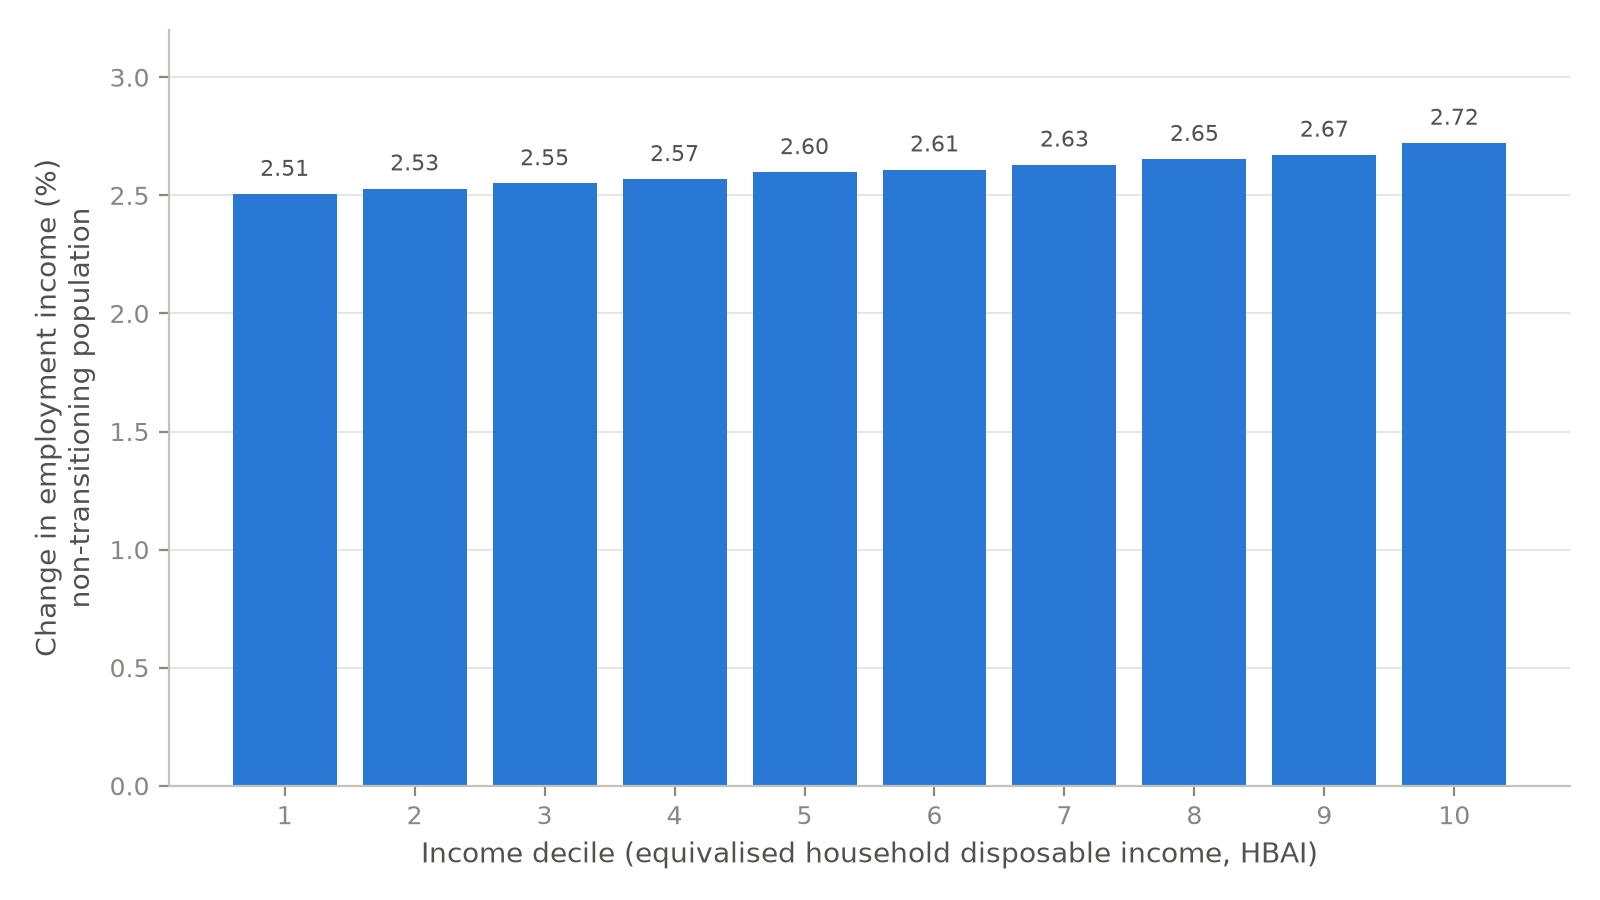
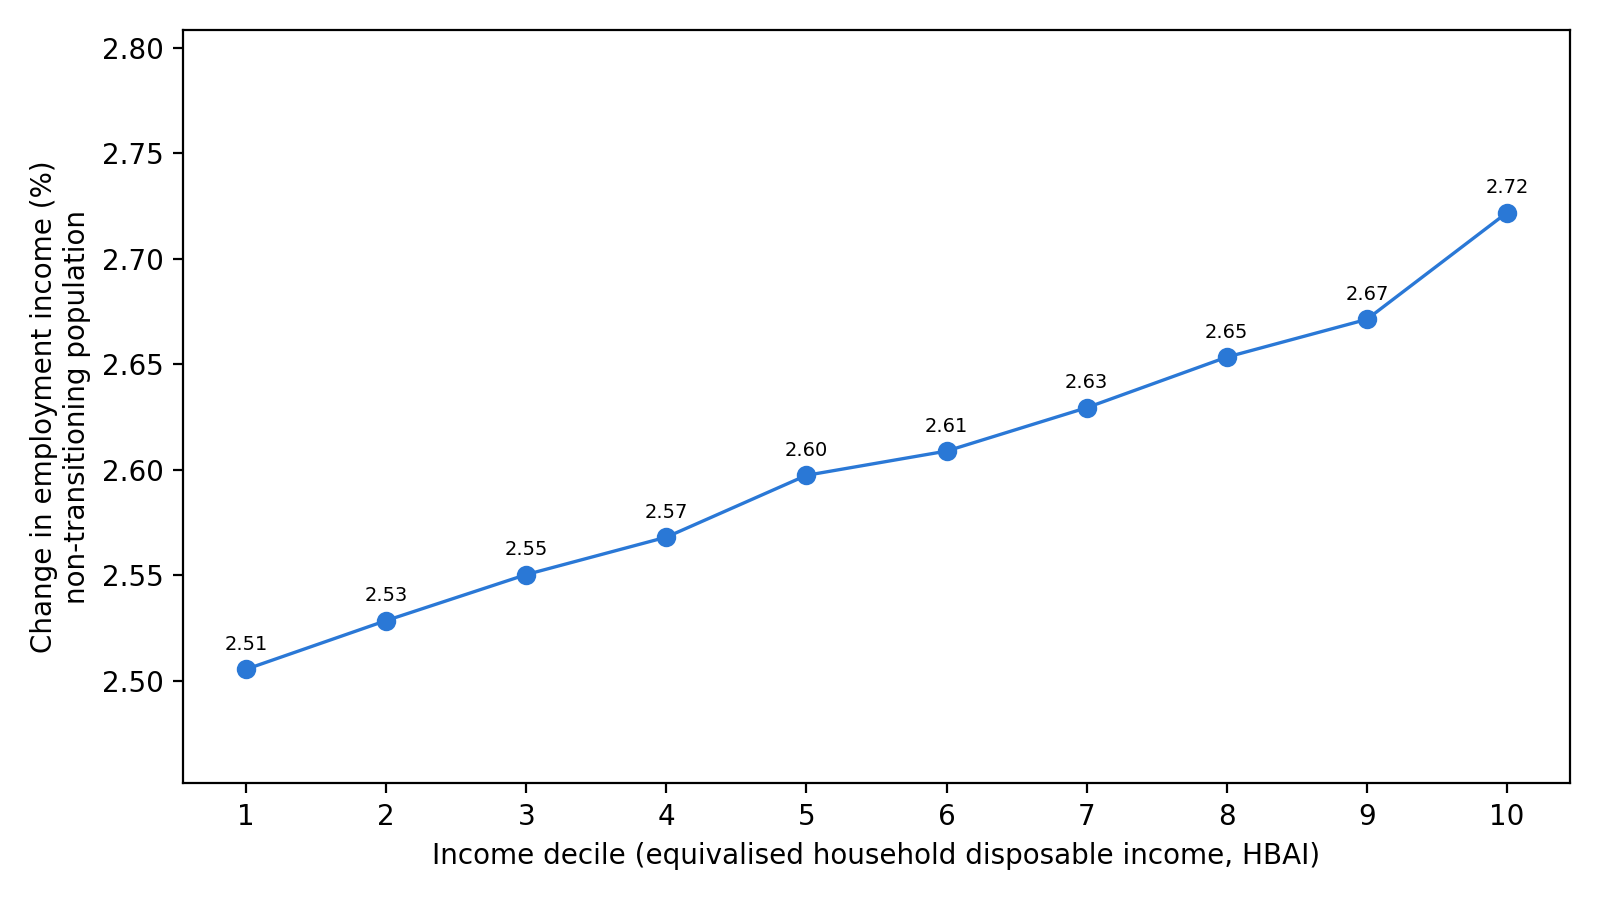
Remove paper-anchored stress-test table; recast literature as context, not scenario sources
Drops Table tab:papers and its transported-headline scenarios. The
cohort-shock point survives as a qualitative statement citing the
hiring-channel literature; methodology, intro, literature, and
discussion no longer describe scenarios as anchored to those papers.

diff --git a/paper/sections/results.tex b/paper/sections/results.tex
@@ -171,30 +171,8 @@ With that understood, the geography is far from uniform. Nationally, aggregate h
 
 The incidence axis has a within-family age structure worth drawing out. Under exposure-proportional incidence, workers aged 16--24 account for only 4.9 per cent of the displaced in the central scenario, because young people in the UK are concentrated in low-exposure service occupations; the burden falls on prime-age workers (28.1 per cent of the displaced are aged 35--44). The junior-concentrated family of Table~\ref{tab:incidence} reweights displacement probabilities towards junior workers while holding the aggregate displacement rate at 7 per cent, raising the 16--24 share to 6.2 per cent and lowering the 55--64 share from 19.1 to 16.2 per cent. The aggregate consequences are statistically nil---over 20 draws the junior family is indistinguishable from the exposure-proportional one on cost (\pounds 18.3 $\pm$ 1.3 against \pounds 18.2 $\pm$ 1.5 billion), poverty and the Gini alike---but the exercise makes a structural point: seniority bias must be imposed, because it cannot be derived from occupational exposure alone. Even under the junior tilt, prime-age workers remain the largest displaced group.
 
-Table~\ref{tab:papers} pushes further, reporting three employment-only stress tests anchored to headline estimates in the recent empirical literature: the UK occupational estimates of \citet{kleinteeselink2025}, the seniority-biased hiring evidence of \citet{hosseini2026}, and the early-career employment declines in AI-exposed occupations documented by \citet{brynjolfsson2025}. These are author-designed transports of headline numbers onto the UK employment structure, not direct implementations of the source papers' designs, and the footnotes flag the strongest assumptions.
 
-\begin{table}[htbp]
-\centering
-\caption{Paper-anchored displacement stress tests, UK translation (employment channel only, single draw, seed 0)}
-\label{tab:papers}
-\small
-\begin{tabular}{lrrrr}
-\toprule
-Scenario & Displaced & Exchequer & $\Delta$ Poverty & $\Delta$ Gini \\
- & (million) & (\pounds bn/yr) & (BHC, pp) & (pp) \\
-\midrule
-Klein Teeselink (2025)$^{a}$ & 1.03 & 22.5 & +1.30 & +0.42 \\
-Hosseini--Lichtinger (2026)$^{a}$ & 0.10 & 1.3 & +0.11 & +0.04 \\
-\quad adopter-share scaled & 0.02 & 0.1 & +0.01 & +0.01 \\
-Brynjolfsson et al.\ (2025a)$^{a,b}$ & 0.02 & 0.2 & +0.02 & +0.01 \\
-\bottomrule
-\end{tabular}
-
-\vspace{0.4em}
-\parbox{0.92\textwidth}{\footnotesize\emph{Note:} Klein Teeselink: $-4.5$ per cent of employees, junior-tilted draws. Hosseini--Lichtinger: 9 per cent of under-30s in above-median-exposure occupations (at-adopter rate); the scaled row multiplies by the adopter employment share. Brynjolfsson et al.: 16 per cent of ages 22--25 in top-quintile-exposure occupations. $^{a}$Source estimates are firm-conditional or relative declines; transporting them economy-wide (or as absolute rates) makes these upper bounds. $^{b}$A \emph{relative} decline versus less-exposed groups in the source paper.}
-\end{table}
-
-The lesson is that cohort-specific shocks are fiscally small. The \citet{hosseini2026} and \citet{brynjolfsson2025} stress tests, which confine displacement to entry-level and early-career workers, displace 0.10 million and 0.02 million workers and cost the Exchequer \pounds 1.3 billion and \pounds 0.2 billion a year respectively---one to two orders of magnitude below the broad-based scenarios---precisely because junior workers contribute little income tax and National Insurance. Only the economy-wide \citet{kleinteeselink2025} transport, with just over one million displaced, generates fiscal effects comparable to my central preset (\pounds 22.5 billion, poverty +1.30 points). If AI adoption in practice falls hardest on juniors through recruitment rather than dismissal, that operates through hiring channels that stock-based simulation frameworks such as mine do not capture by construction.
+If AI adoption in practice falls hardest on juniors through recruitment rather than dismissal---as the seniority-biased hiring evidence of \citet{hosseini2026} and the early-career employment declines in AI-exposed occupations documented by \citet{brynjolfsson2025} suggest---the fiscal consequences would be far smaller than the broad-based scenarios above, because junior workers contribute little income tax and National Insurance. That channel, however, operates through hiring flows that stock-based simulation frameworks such as mine do not capture by construction.
 
 Exposure also carries a gender gradient. Employed women in the FRS have a mean C-AIOE of 0.33 against 0.18 for employed men, reflecting women's concentration in administrative, professional and associate-professional work. In the central scenario this translates into a displacement rate of 7.5 per cent for employed women against 6.4 per cent for men (means over 20 draws): women hold 51.8 per cent of employment but account for 55.6 per cent of the displaced. Household-level income changes are nevertheless similar by sex ($-3.0$ per cent for women, $-2.8$ per cent for men). A natural reading is that income pooling within couples mutes the individual asymmetry at the household level, though I have not decomposed the result and offer this as a hypothesis rather than a finding. The individual-level asymmetry itself echoes the international evidence that female employment is substantially more exposed to generative AI than male employment \citep{ilo2025}, and suggests that within-household earnings shares---and with them, financial autonomy---would shift even where household totals move little.
 

diff --git a/paper/sections/discussion.tex b/paper/sections/discussion.tex
@@ -30,18 +30,18 @@ Taken together, the results suggest that the United Kingdom would enter a period
 
 Several limitations qualify the results. I state them plainly, together with the measurement conventions a reader needs in order to compare my figures with official statistics.
 
-\paragraph{Measurement conventions.} All income results are on the HBAI cash disposable income concept at the household level, equivalised; poverty and inequality statistics share that concept. In computing the Gini I bottom-code negative equivalised incomes at zero. My baseline Gini is 0.309, below the official UK figure of roughly 0.34, because I use the plain Family Resources Survey without the SPI adjustment that corrects for under-coverage of top incomes; levels should therefore not be compared directly with official statistics, though changes---the objects of interest---are computed on a consistent basis throughout.
+Several measurement conventions bear on interpretation. All income results are on the HBAI cash disposable income concept at the household level, equivalised; poverty and inequality statistics share that concept. In computing the Gini I bottom-code negative equivalised incomes at zero. My baseline Gini is 0.309, below the official UK figure of roughly 0.34, because I use the plain Family Resources Survey without the SPI adjustment that corrects for under-coverage of top incomes; levels should therefore not be compared directly with official statistics, though changes---the objects of interest---are computed on a consistent basis throughout.
 
-\paragraph{Monte Carlo conventions.} Which results rest on which random draws matters for interpretation; the conventions are set out in Section~\ref{sec:microsim} and Appendix~\ref{app:seeds}. Single-draw figures carry draw noise that the averaged figures do not, although the 20-draw runs indicate the aggregate magnitudes are stable across seeds.
+Which results rest on which random draws matters for interpretation; the conventions are set out in Section~\ref{sec:microsim} and Appendix~\ref{app:seeds}. Single-draw figures carry draw noise that the averaged figures do not, although the 20-draw runs indicate the aggregate magnitudes are stable across seeds.
 
-\paragraph{Exposure resolution and crosswalk provenance.} Occupational exposure is assigned at the 1-digit SOC level, because the Family Resources Survey records occupation only at the major-group level; within-group heterogeneity in AI exposure---substantial in the indices of \citet{felten2021}, \citet{webb2019} and \citet{eloundou2023}---is averaged away. The exposure scores themselves reach the FRS through a reconstructed pipeline: the complementarity adjustment is rebuilt from published sources (recovering the published ranking up to a level offset), and the US occupational scores are carried to SOC2020 through a chained SOC2018--SOC2010--ISCO--SOC2020 crosswalk with ASHE employment weights available for 340 of 412 unit groups. A UK-native task-based index (GAISI) built from British Skills and Employment Survey data now exists \citep{henseke2025}; adopting it, together with an imputation of detailed occupation from the Labour Force Survey, would remove the crosswalk and the resolution constraint at once, and is the first item on my agenda.
+On exposure resolution and crosswalk provenance: occupational exposure is assigned at the 1-digit SOC level, because the Family Resources Survey records occupation only at the major-group level; within-group heterogeneity in AI exposure---substantial in the indices of \citet{felten2021}, \citet{webb2019} and \citet{eloundou2023}---is averaged away. The exposure scores themselves reach the FRS through a reconstructed pipeline: the complementarity adjustment is rebuilt from published sources (recovering the published ranking up to a level offset), and the US occupational scores are carried to SOC2020 through a chained SOC2018--SOC2010--ISCO--SOC2020 crosswalk with ASHE employment weights available for 340 of 412 unit groups. A UK-native task-based index (GAISI) built from British Skills and Employment Survey data now exists \citep{henseke2025}; adopting it, together with an imputation of detailed occupation from the Labour Force Survey, would remove the crosswalk and the resolution constraint at once, and is the first item on my agenda.
 
-\paragraph{Survey weights.} I use the uncalibrated FRS grossing weights rather than PolicyEngine's enhanced dataset. The enhanced dataset improves aggregate fiscal accuracy through reweighting and household cloning, but cloning breaks the one-to-one correspondence between records and observed occupations on which the exposure join depends. Aggregate fiscal magnitudes should be read with the usual caveats attaching to unadjusted survey grossing.
+On survey weights, I use the uncalibrated FRS grossing weights rather than PolicyEngine's enhanced dataset. The enhanced dataset improves aggregate fiscal accuracy through reweighting and household cloning, but cloning breaks the one-to-one correspondence between records and observed occupations on which the exposure join depends. Aggregate fiscal magnitudes should be read with the usual caveats attaching to unadjusted survey grossing.
 
-\paragraph{Static displacement.} Displaced workers are fully out of work in the simulated year---earnings, hours, employee pension contributions and salary sacrifice set to zero, no statutory pay, benefit entitlements recomputed under existing rules---while dual jobholders retain self-employment income. The duration structure of unemployment is not modelled, so the exhaustion of contributory benefits (new-style Jobseeker's Allowance is payable for at most six months) cannot be expressed; over longer horizons I overstate the support available to displaced workers without means-tested entitlements. Within the year, the sensitivity runs of Section~\ref{sec:results-aggregates} show duration is first-order---a six-month out-of-work spell cuts the fiscal cost by more than three-quarters and eliminates most of the poverty rise---whereas incomplete benefit take-up moves the headline numbers only marginally.
+The displacement treatment is static: displaced workers are fully out of work in the simulated year---earnings, hours, employee pension contributions and salary sacrifice set to zero, no statutory pay, benefit entitlements recomputed under existing rules---while dual jobholders retain self-employment income. The duration structure of unemployment is not modelled, so the exhaustion of contributory benefits (new-style Jobseeker's Allowance is payable for at most six months) cannot be expressed; over longer horizons I overstate the support available to displaced workers without means-tested entitlements. Within the year, the sensitivity runs of Section~\ref{sec:results-aggregates} show duration is first-order---a six-month out-of-work spell cuts the fiscal cost by more than three-quarters and eliminates most of the poverty rise---whereas incomplete benefit take-up moves the headline numbers only marginally.
 
-\paragraph{The capital channel.} The capital-income measure covers only interest and dividends, excluding rental income and returns inside private pensions, and household surveys under-represent top incomes and capital income in particular. The concentration of capital income in the top decile that drives this channel is, if anything, understated. Linked administrative or wealth-survey data (the Wealth and Assets Survey) would sharpen it considerably.
+The capital channel is measured narrowly: the capital-income measure covers only interest and dividends, excluding rental income and returns inside private pensions, and household surveys under-represent top incomes and capital income in particular. The concentration of capital income in the top decile that drives this channel is, if anything, understated. Linked administrative or wealth-survey data (the Wealth and Assets Survey) would sharpen it considerably.
 
-\paragraph{The self-employed.} All shock scenarios exclude the self-employed. Exposure indices and the displacement literature underpinning my parameters are defined over employees, and self-employed earnings dynamics under AI adoption may include both displacement and new opportunities; I exclude the group rather than impose an arbitrary treatment. Since self-employment is a meaningful share of UK employment and is concentrated in some exposed occupations, this is a substantive omission.
+All shock scenarios exclude the self-employed. Exposure indices and the displacement literature underpinning my parameters are defined over employees, and self-employed earnings dynamics under AI adoption may include both displacement and new opportunities; I exclude the group rather than impose an arbitrary treatment. Since self-employment is a meaningful share of UK employment and is concentrated in some exposed occupations, this is a substantive omission.
 
-\paragraph{Mechanisms and anchors.} Where I attribute decile-level patterns to particular mechanisms---the thinness of savings buffers at the bottom, income pooling within couples---these attributions are hypotheses consistent with the data rather than results of a formal decomposition, and I flag them as such. The scenario anchors, likewise, are author-designed stress tests transported from headline estimates: the 1 per cent ``low'' cell is a sensitivity case rather than an employment estimate, the 7 per cent displacement and 2.6 per cent wage figures are conventions converting task-exposure and productivity estimates into single-year shocks, and the paper-anchored scenarios are transpositions, not implementations, of the studies they draw on. As UK-specific evidence accumulates---early examples include \citet{kleinteeselink2025} and \citet{rockall2025}---the scenarios can be re-anchored, and the gap between scenario analysis and conditional forecast will narrow. Extending the exposure measurement, restoring calibrated weights through an occupation-preserving reweighting, and introducing benefit-duration dynamics are the immediate priorities for further work.
+Finally, on mechanisms and anchors: where I attribute decile-level patterns to particular mechanisms---the thinness of savings buffers at the bottom, income pooling within couples---these attributions are hypotheses consistent with the data rather than results of a formal decomposition, and I flag them as such. The scenario anchors, likewise, are author-designed stress tests transported from headline estimates: the 1 per cent ``low'' cell is a sensitivity case rather than an employment estimate, the 7 per cent displacement and 2.6 per cent wage figures are conventions converting task-exposure and productivity estimates into single-year shocks. As UK-specific evidence accumulates---early examples include \citet{kleinteeselink2025} and \citet{rockall2025}---the scenarios can be re-anchored, and the gap between scenario analysis and conditional forecast will narrow. Extending the exposure measurement, restoring calibrated weights through an occupation-preserving reweighting, and introducing benefit-duration dynamics are the immediate priorities for further work.

diff --git a/paper/sections/intro.tex b/paper/sections/intro.tex
@@ -12,4 +12,4 @@ Second, incidence determines the \emph{form} the cost takes. The same 1.6 millio
 
 The incidence axis matters precisely because exposure indices cannot resolve it. Occupational exposure is age-blind: it cannot distinguish the junior analyst from the senior partner doing related work, so any scenario allocated by exposure alone spreads displacement across the age structure of exposed occupations, which in the UK peaks among prime-age workers. The junior-concentrated pattern in UK firm data \citep{kleinteeselink2025}, US resume histories \citep{hosseini2026} and US payroll records \citep{brynjolfsson2025} must therefore be imposed on the framework rather than derived from it, and the expertise-compression scenario is an author-designed stress test of the mechanism articulated by \citet{autor2024} rather than an estimate. I say so plainly throughout: the incidence gradient is an assumption in every family, and the paper's contribution is the tax-benefit system's mediation of each.
 
-The remainder of the paper proceeds as follows. Section~\ref{sec:literature} situates the study in the live debate over AI's incidence and in the microsimulation literature on technology shocks and household income. Section~\ref{sec:methodology} describes the exposure mapping to SOC2020 major groups, the displacement, wage and capital mechanics, the four incidence families, and the PolicyEngine UK framework. Section~\ref{sec:results} presents the distributional incidence of the central shock, the scenario grid, the five incidence families including the measured family, the constituency geography, the age and gender dimensions, benefit caseloads, robustness checks and paper-anchored scenarios. Section~\ref{sec:policy} turns to policy responses: reform counterfactuals in the shocked world and the tax-composition channel. Section~\ref{sec:discussion} concludes, draws out the policy implications and sets out limitations and further work.
+The remainder of the paper proceeds as follows. Section~\ref{sec:literature} situates the study in the live debate over AI's incidence and in the microsimulation literature on technology shocks and household income. Section~\ref{sec:methodology} describes the exposure mapping to SOC2020 major groups, the displacement, wage and capital mechanics, the four incidence families, and the PolicyEngine UK framework. Section~\ref{sec:results} presents the distributional incidence of the central shock, the scenario grid, the five incidence families including the measured family, the constituency geography, the age and gender dimensions, benefit caseloads and robustness checks. Section~\ref{sec:policy} turns to policy responses: reform counterfactuals in the shocked world and the tax-composition channel. Section~\ref{sec:discussion} concludes, draws out the policy implications and sets out limitations and further work.

diff --git a/paper/sections/literature.tex b/paper/sections/literature.tex
@@ -15,7 +15,7 @@ The modern exposure literature descends from the occupation-level automation pro
 
 \paragraph{Complementarity in judgement.} A third strand predicts that AI, by making prediction cheap, raises the value of the human complements to prediction---judgement, decision-making and responsibility \citep{agrawal2018}. Workers whose roles centre on decisions rather than predictable task execution would then gain, pushing incidence away from senior decision-makers and towards workers whose tasks are prediction-like. This school shares with expertise compression a scepticism that exposure indices identify the losers, while pointing the gradient in a different direction.
 
-\paragraph{Adaptability and null effects.} Finally, realised effects may simply be small. Danish population-scale evidence finds minimal effects of AI chatbots on earnings and hours in the first years of diffusion \citep{humlum2025}, and US vacancy data show exposed establishments reorganising hiring without detectable aggregate employment effects \citep{acemoglu2022vacancies}. \citet{acemoglu2025} likewise derives modest macroeconomic gains from task-level foundations. These results discipline the magnitudes any simulation should entertain; my grid therefore extends down to small shocks, and my paper-anchored scenarios include effects an order of magnitude below the central calibration.
+\paragraph{Adaptability and null effects.} Finally, realised effects may simply be small. Danish population-scale evidence finds minimal effects of AI chatbots on earnings and hours in the first years of diffusion \citep{humlum2025}, and US vacancy data show exposed establishments reorganising hiring without detectable aggregate employment effects \citep{acemoglu2022vacancies}. \citet{acemoglu2025} likewise derives modest macroeconomic gains from task-level foundations. These results discipline the magnitudes any simulation should entertain; my grid therefore extends down to small shocks.
 
 \paragraph{The junior-concentrated evidence.} The earliest ex-post evidence on generative AI points to a gradient none of the three theoretical schools quite predicted: within exposed occupations, adjustment is concentrated on \emph{junior} workers. \citet{kleinteeselink2025} link generative-AI exposure to UK firm-level records and find employment reductions of around 4.5 per cent at more exposed firms, concentrated in junior positions; \citet{hosseini2026} document, in US resume and posting data, junior employment falling by around 9 per cent within six quarters of firm AI adoption while senior employment is unaffected; and \citet{brynjolfsson2025} find a 16 per cent relative employment decline among workers aged 22--25 in the most exposed US occupations since late 2022, with older workers largely spared. If incidence is graded by seniority as much as by skill, the distributional consequences differ from a classic skill-biased shock, because junior workers are spread across the household income distribution and interact differently with means-tested benefits.
 

diff --git a/paper/sections/methodology.tex b/paper/sections/methodology.tex
@@ -22,7 +22,7 @@ The one-digit level of aggregation is a genuine constraint. The Family Resources
 
 The size of the aggregate shock cannot be estimated from historical data and must be assumed; I treat it as a scenario input and vary it systematically. The central calibration takes a displacement rate of 7 per cent of employees and an aggregate wage uplift of 2.6 per cent for those who remain in work. Both figures are calibration conventions derived from \citet{briggs2023}: the 7 per cent converts their task-exposure estimates into an employment displacement share, and the 2.6 per cent converts their productivity projections into an aggregate wage gain. Neither is a forecast, and I do not present them as one. Alongside the labour-market effects, AI adoption is assumed to raise the return to capital by 0.4 percentage points, from a baseline of 1.005 per cent to 1.405 per cent.
 
-Because displacement and wage growth are genuinely uncertain, the central calibration sits inside a grid spanning displacement rates from 0 to 10 per cent and aggregate wage growth from 0 to 5 per cent --- 66 scenario cells in all, with the capital-return shock applied throughout. The 1 per cent ``low'' anchor is a pure sensitivity case: \citet{acemoglu2025} estimates a ten-year GDP effect of around 1 per cent, not an employment displacement rate, and I do not attribute the anchor to him. At the top of the grid, the 13 per cent ``high'' preset stress-tests a displacement rate roughly double the central convention. Section~\ref{sec:results} additionally reports three employment-only scenarios transported from recent empirical headline estimates \citep{kleinteeselink2025, brynjolfsson2025, hosseini2026}; these are author-designed stress tests that carry each paper's headline magnitude into my framework, not direct implementations of those studies.
+Because displacement and wage growth are genuinely uncertain, the central calibration sits inside a grid spanning displacement rates from 0 to 10 per cent and aggregate wage growth from 0 to 5 per cent --- 66 scenario cells in all, with the capital-return shock applied throughout. The 1 per cent ``low'' anchor is a pure sensitivity case: \citet{acemoglu2025} estimates a ten-year GDP effect of around 1 per cent, not an employment displacement rate, and I do not attribute the anchor to him. At the top of the grid, the 13 per cent ``high'' preset stress-tests a displacement rate roughly double the central convention.
 
 \subsection{Implementing the shock at the micro level}
 \label{sec:shocks}